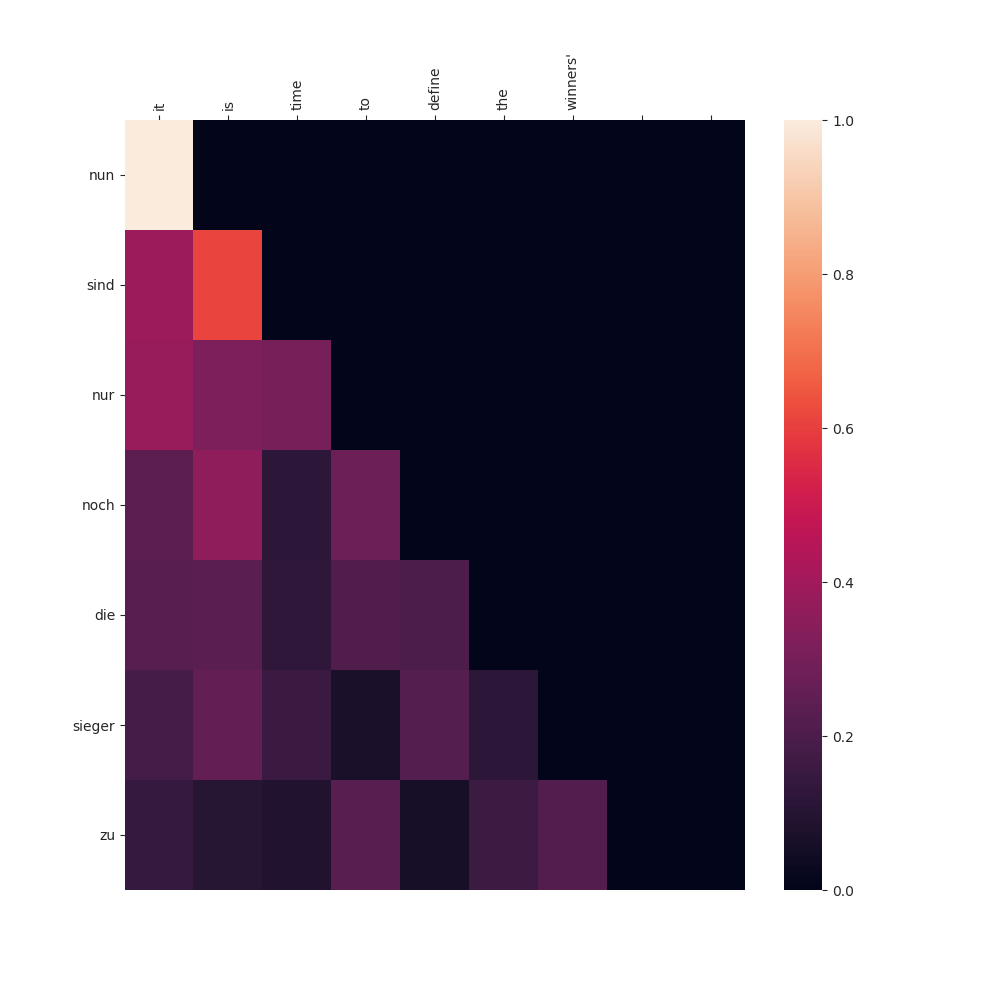
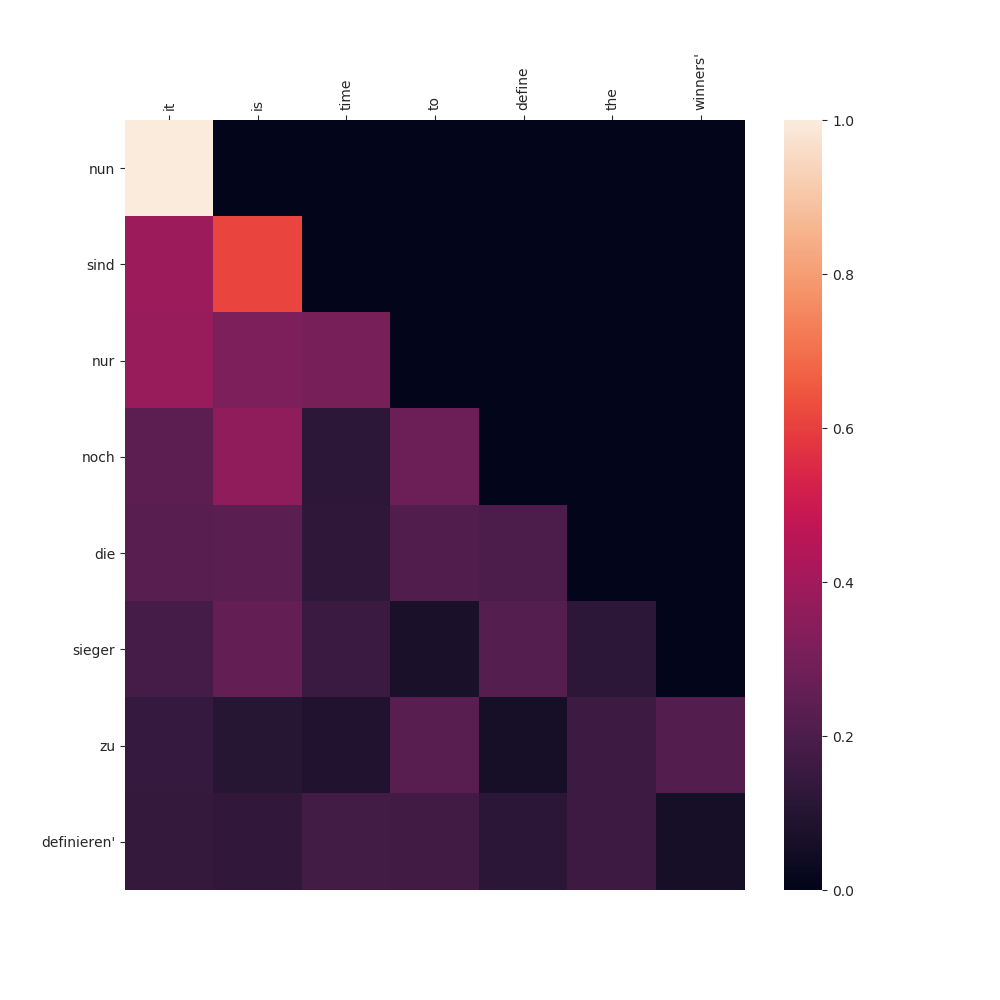
minor updates

diff --git a/transformer.py b/transformer.py
@@ -329,7 +329,7 @@ def show_attn(attn_name, data_num, attns, input_seq, pred_seq, sample_num):
     attn = attns[data_num][0].data.numpy()
     input_seq = input_seq.split(' ')
     pred_seq = pred_seq.split(' ')
-    g = sns.heatmap(attn[:len(input_seq), :len(pred_seq)+1])
+    g = sns.heatmap(attn[:len(pred_seq), :len(input_seq)])
     g.set_xticklabels(input_seq, rotation=90)
     g.set_yticklabels(pred_seq, rotation=0)
     g.xaxis.tick_top()
